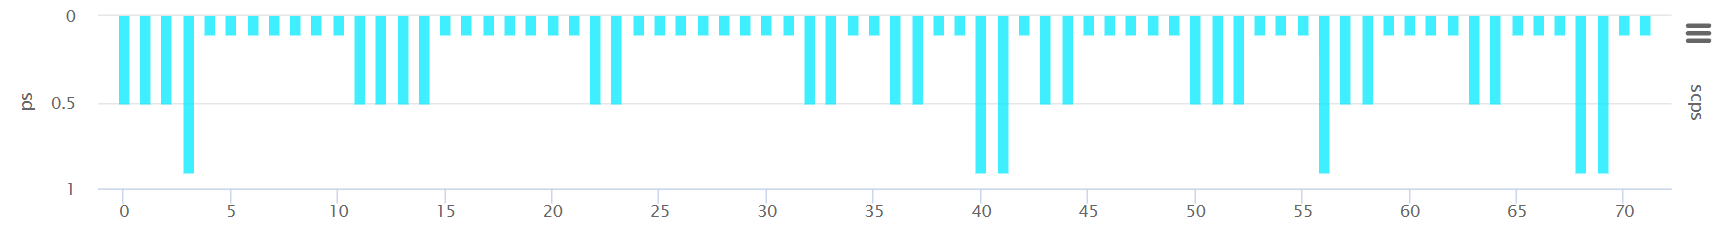
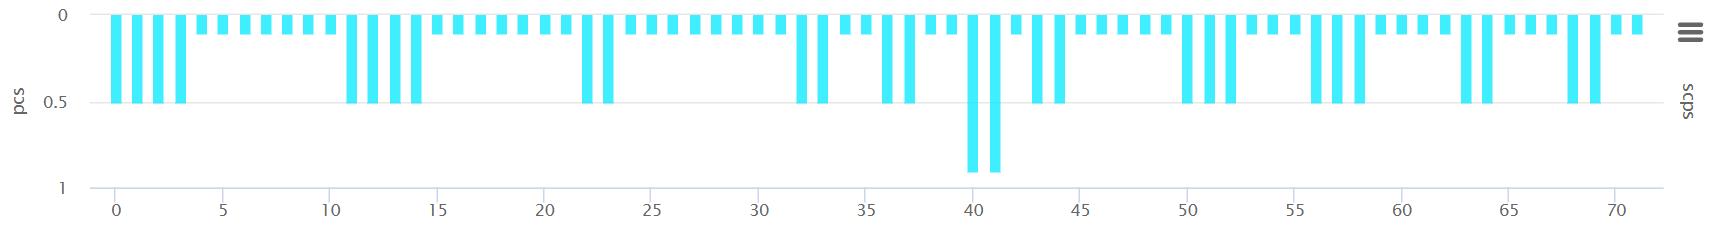
Charts and images change as words change

Changed region(s): [[0.0, 0.0304, 1.0, 0.9435], [0.1238, 0.8522, 0.1548, 0.8826]]

diff --git a/static/js/polarityUtils.js b/static/js/polarityUtils.js
@@ -11,8 +11,8 @@ class PolarityUtils {
         this.outputPolarSeq = '';
         this.outputFiveSeq = '';
         //N-N-X, P-P-X외 추가
-        this.dicInputPolar = {'N-N-X' : 0,'N-P-X' : 0,'N-A-X' : 0,'N-B-X' : 0,'P-N-X' : 0,'P-P-X' : 0,'P-A-X' : 0,'P-B-X' : 0,'A-N-X' : 0,'A-P-X' : 0,'A-A-X' : 0,'A-B-X' : 0,'B-N-X' : 0,'B-P-X' : 0,'B-B-X' : 0,'B-A-X' : 0,'ETC' : 0,};
-        this.dicOutputPolar = {'N-N-X' : 0,'N-P-X' : 0,'N-A-X' : 0,'N-B-X' : 0,'P-N-X' : 0,'P-P-X' : 0,'P-A-X' : 0,'P-B-X' : 0,'A-N-X' : 0,'A-P-X' : 0,'A-A-X' : 0,'A-B-X' : 0,'B-N-X' : 0,'B-P-X' : 0,'B-B-X' : 0,'B-A-X' : 0,'ETC' : 0,};
+        this.dicInputPolar = {'N-N-＊' : 0,'N-P-＊' : 0,'N-A-＊' : 0,'N-B-＊' : 0,'P-N-＊' : 0,'P-P-＊' : 0,'P-A-＊' : 0,'P-B-＊' : 0,'A-N-＊' : 0,'A-P-＊' : 0,'A-A-＊' : 0,'A-B-＊' : 0,'B-N-＊' : 0,'B-P-＊' : 0,'B-B-＊' : 0,'B-A-＊' : 0,'ETC' : 0,};
+        this.dicOutputPolar = {'N-N-＊' : 0,'N-P-＊' : 0,'N-A-＊' : 0,'N-B-＊' : 0,'P-N-＊' : 0,'P-P-＊' : 0,'P-A-＊' : 0,'P-B-＊' : 0,'A-N-＊' : 0,'A-P-＊' : 0,'A-A-＊' : 0,'A-B-＊' : 0,'B-N-＊' : 0,'B-P-＊' : 0,'B-B-＊' : 0,'B-A-＊' : 0,'ETC' : 0,};
         //Polarity feature	Polarity feature_S	Amino acid
         this.DIC_POLAR_FEATURE = {'A' : 'N','V' : 'N','L' : 'N','G' : 'N','I' : 'N','M' : 'N','W' : 'N','F' : 'N','P' : 'N','S' : 'P','C' : 'P','N' : 'P','Q' : 'P','T' : 'P','Y' : 'P','D' : 'A','E' : 'A','K' : 'B','R' : 'B','H' : 'B',};
         //Five amino acid properties 
@@ -117,43 +117,43 @@ class PolarityUtils {
             //input polar aa 건수 계산
             for (let i=0; i<this.inputPolarSeq.length -2; i++){
                 //기존 3자리조건에서 2자리로 변경, NN,PP에서 추가 ETC는 는 표에 count하기 위해 추가
-                if (this.inputPolarSeq.slice(i, i+2) == 'NN') this.dicInputPolar['N-N-X'] += 1
-                else if (this.inputPolarSeq.slice(i, i+2) == 'NP') this.dicInputPolar['N-P-X'] += 1, this.dicInputPolar['ETC'] += 1
-                else if (this.inputPolarSeq.slice(i, i+2) == 'NA') this.dicInputPolar['N-A-X'] += 1, this.dicInputPolar['ETC'] += 1
-                else if (this.inputPolarSeq.slice(i, i+2) == 'NB') this.dicInputPolar['N-B-X'] += 1, this.dicInputPolar['ETC'] += 1
-                else if (this.inputPolarSeq.slice(i, i+2) == 'PN') this.dicInputPolar['P-N-X'] += 1, this.dicInputPolar['ETC'] += 1
-                else if (this.inputPolarSeq.slice(i, i+2) == 'PP') this.dicInputPolar['P-P-X'] += 1
-                else if (this.inputPolarSeq.slice(i, i+2) == 'PA') this.dicInputPolar['P-A-X'] += 1, this.dicInputPolar['ETC'] += 1
-                else if (this.inputPolarSeq.slice(i, i+2) == 'PB') this.dicInputPolar['P-B-X'] += 1, this.dicInputPolar['ETC'] += 1
-                else if (this.inputPolarSeq.slice(i, i+2) == 'AA') this.dicInputPolar['A-A-X'] += 1, this.dicInputPolar['ETC'] += 1
-                else if (this.inputPolarSeq.slice(i, i+2) == 'AB') this.dicInputPolar['A-B-X'] += 1, this.dicInputPolar['ETC'] += 1
-                else if (this.inputPolarSeq.slice(i, i+2) == 'AN') this.dicInputPolar['A-N-X'] += 1, this.dicInputPolar['ETC'] += 1
-                else if (this.inputPolarSeq.slice(i, i+2) == 'AP') this.dicInputPolar['A-P-X'] += 1, this.dicInputPolar['ETC'] += 1
-                else if (this.inputPolarSeq.slice(i, i+2) == 'BN') this.dicInputPolar['B-N-X'] += 1, this.dicInputPolar['ETC'] += 1
-                else if (this.inputPolarSeq.slice(i, i+2) == 'BP') this.dicInputPolar['B-P-X'] += 1, this.dicInputPolar['ETC'] += 1
-                else if (this.inputPolarSeq.slice(i, i+2) == 'BA') this.dicInputPolar['B-A-X'] += 1, this.dicInputPolar['ETC'] += 1
-                else if (this.inputPolarSeq.slice(i, i+2) == 'BB') this.dicInputPolar['B-B-X'] += 1, this.dicInputPolar['ETC'] += 1
+                if (this.inputPolarSeq.slice(i, i+2) == 'NN') this.dicInputPolar['N-N-＊'] += 1
+                else if (this.inputPolarSeq.slice(i, i+2) == 'NP') this.dicInputPolar['N-P-＊'] += 1, this.dicInputPolar['ETC'] += 1
+                else if (this.inputPolarSeq.slice(i, i+2) == 'NA') this.dicInputPolar['N-A-＊'] += 1, this.dicInputPolar['ETC'] += 1
+                else if (this.inputPolarSeq.slice(i, i+2) == 'NB') this.dicInputPolar['N-B-＊'] += 1, this.dicInputPolar['ETC'] += 1
+                else if (this.inputPolarSeq.slice(i, i+2) == 'PN') this.dicInputPolar['P-N-＊'] += 1, this.dicInputPolar['ETC'] += 1
+                else if (this.inputPolarSeq.slice(i, i+2) == 'PP') this.dicInputPolar['P-P-＊'] += 1
+                else if (this.inputPolarSeq.slice(i, i+2) == 'PA') this.dicInputPolar['P-A-＊'] += 1, this.dicInputPolar['ETC'] += 1
+                else if (this.inputPolarSeq.slice(i, i+2) == 'PB') this.dicInputPolar['P-B-＊'] += 1, this.dicInputPolar['ETC'] += 1
+                else if (this.inputPolarSeq.slice(i, i+2) == 'AA') this.dicInputPolar['A-A-＊'] += 1, this.dicInputPolar['ETC'] += 1
+                else if (this.inputPolarSeq.slice(i, i+2) == 'AB') this.dicInputPolar['A-B-＊'] += 1, this.dicInputPolar['ETC'] += 1
+                else if (this.inputPolarSeq.slice(i, i+2) == 'AN') this.dicInputPolar['A-N-＊'] += 1, this.dicInputPolar['ETC'] += 1
+                else if (this.inputPolarSeq.slice(i, i+2) == 'AP') this.dicInputPolar['A-P-＊'] += 1, this.dicInputPolar['ETC'] += 1
+                else if (this.inputPolarSeq.slice(i, i+2) == 'BN') this.dicInputPolar['B-N-＊'] += 1, this.dicInputPolar['ETC'] += 1
+                else if (this.inputPolarSeq.slice(i, i+2) == 'BP') this.dicInputPolar['B-P-＊'] += 1, this.dicInputPolar['ETC'] += 1
+                else if (this.inputPolarSeq.slice(i, i+2) == 'BA') this.dicInputPolar['B-A-＊'] += 1, this.dicInputPolar['ETC'] += 1
+                else if (this.inputPolarSeq.slice(i, i+2) == 'BB') this.dicInputPolar['B-B-＊'] += 1, this.dicInputPolar['ETC'] += 1
                 else this.dicInputPolar['ETC'] += 1
             }
 
             //output polar aa 건수 계산
             for (let i=0; i<this.outputPolarSeq.length -2; i++){
-                if (this.outputPolarSeq.slice(i, i+2) == 'NN') this.dicOutputPolar['N-N-X'] += 1
-                else if (this.outputPolarSeq.slice(i, i+2) == 'NP') this.dicOutputPolar['N-P-X'] += 1, this.dicOutputPolar['ETC'] += 1
-                else if (this.outputPolarSeq.slice(i, i+2) == 'NA') this.dicOutputPolar['N-A-X'] += 1, this.dicOutputPolar['ETC'] += 1
-                else if (this.outputPolarSeq.slice(i, i+2) == 'NB') this.dicOutputPolar['N-B-X'] += 1, this.dicOutputPolar['ETC'] += 1
-                else if (this.outputPolarSeq.slice(i, i+2) == 'PN') this.dicOutputPolar['P-N-X'] += 1, this.dicOutputPolar['ETC'] += 1
-                else if (this.outputPolarSeq.slice(i, i+2) == 'PP') this.dicOutputPolar['P-P-X'] += 1
-                else if (this.outputPolarSeq.slice(i, i+2) == 'PA') this.dicOutputPolar['P-A-X'] += 1, this.dicOutputPolar['ETC'] += 1
-                else if (this.outputPolarSeq.slice(i, i+2) == 'PB') this.dicOutputPolar['P-B-X'] += 1, this.dicOutputPolar['ETC'] += 1
-                else if (this.outputPolarSeq.slice(i, i+2) == 'AA') this.dicOutputPolar['A-A-X'] += 1, this.dicOutputPolar['ETC'] += 1
-                else if (this.outputPolarSeq.slice(i, i+2) == 'AB') this.dicOutputPolar['A-B-X'] += 1, this.dicOutputPolar['ETC'] += 1
-                else if (this.outputPolarSeq.slice(i, i+2) == 'AN') this.dicOutputPolar['A-N-X'] += 1, this.dicOutputPolar['ETC'] += 1
-                else if (this.outputPolarSeq.slice(i, i+2) == 'AP') this.dicOutputPolar['A-P-X'] += 1, this.dicOutputPolar['ETC'] += 1
-                else if (this.outputPolarSeq.slice(i, i+2) == 'BN') this.dicOutputPolar['B-N-X'] += 1, this.dicOutputPolar['ETC'] += 1
-                else if (this.outputPolarSeq.slice(i, i+2) == 'BP') this.dicOutputPolar['B-P-X'] += 1, this.dicOutputPolar['ETC'] += 1
-                else if (this.outputPolarSeq.slice(i, i+2) == 'BA') this.dicOutputPolar['B-A-X'] += 1, this.dicOutputPolar['ETC'] += 1
-                else if (this.outputPolarSeq.slice(i, i+2) == 'BB') this.dicOutputPolar['B-B-X'] += 1, this.dicOutputPolar['ETC'] += 1
+                if (this.outputPolarSeq.slice(i, i+2) == 'NN') this.dicOutputPolar['N-N-＊'] += 1
+                else if (this.outputPolarSeq.slice(i, i+2) == 'NP') this.dicOutputPolar['N-P-＊'] += 1, this.dicOutputPolar['ETC'] += 1
+                else if (this.outputPolarSeq.slice(i, i+2) == 'NA') this.dicOutputPolar['N-A-＊'] += 1, this.dicOutputPolar['ETC'] += 1
+                else if (this.outputPolarSeq.slice(i, i+2) == 'NB') this.dicOutputPolar['N-B-＊'] += 1, this.dicOutputPolar['ETC'] += 1
+                else if (this.outputPolarSeq.slice(i, i+2) == 'PN') this.dicOutputPolar['P-N-＊'] += 1, this.dicOutputPolar['ETC'] += 1
+                else if (this.outputPolarSeq.slice(i, i+2) == 'PP') this.dicOutputPolar['P-P-＊'] += 1
+                else if (this.outputPolarSeq.slice(i, i+2) == 'PA') this.dicOutputPolar['P-A-＊'] += 1, this.dicOutputPolar['ETC'] += 1
+                else if (this.outputPolarSeq.slice(i, i+2) == 'PB') this.dicOutputPolar['P-B-＊'] += 1, this.dicOutputPolar['ETC'] += 1
+                else if (this.outputPolarSeq.slice(i, i+2) == 'AA') this.dicOutputPolar['A-A-＊'] += 1, this.dicOutputPolar['ETC'] += 1
+                else if (this.outputPolarSeq.slice(i, i+2) == 'AB') this.dicOutputPolar['A-B-＊'] += 1, this.dicOutputPolar['ETC'] += 1
+                else if (this.outputPolarSeq.slice(i, i+2) == 'AN') this.dicOutputPolar['A-N-＊'] += 1, this.dicOutputPolar['ETC'] += 1
+                else if (this.outputPolarSeq.slice(i, i+2) == 'AP') this.dicOutputPolar['A-P-＊'] += 1, this.dicOutputPolar['ETC'] += 1
+                else if (this.outputPolarSeq.slice(i, i+2) == 'BN') this.dicOutputPolar['B-N-＊'] += 1, this.dicOutputPolar['ETC'] += 1
+                else if (this.outputPolarSeq.slice(i, i+2) == 'BP') this.dicOutputPolar['B-P-＊'] += 1, this.dicOutputPolar['ETC'] += 1
+                else if (this.outputPolarSeq.slice(i, i+2) == 'BA') this.dicOutputPolar['B-A-＊'] += 1, this.dicOutputPolar['ETC'] += 1
+                else if (this.outputPolarSeq.slice(i, i+2) == 'BB') this.dicOutputPolar['B-B-＊'] += 1, this.dicOutputPolar['ETC'] += 1
                 else this.dicOutputPolar['ETC'] += 1
             }
 

diff --git a/templates/aive/prdctn_result_cv2.html b/templates/aive/prdctn_result_cv2.html
@@ -307,7 +307,7 @@
                                     <img id="imgid" class="help_pop" src="/static/img/sub/ico_help.png" alt="help" style="display: inline">
                                     <span style="display:none">
                                         SCPS : K-means clustering for each amino acid position with protein structure prediction information(PAE, pLDDT)
-                                        <br/>PS : polarity position information for each amino acid
+                                        <br/>PCS : polarity position information for each amino acid
                                         <br/>MR : evaluation of change rate in frequencies of amino acid sequences and nucleotide sequence
                                         <br/>BPES : evaluation of biochemical properties of amino acid sequences
                                     </span>
@@ -315,9 +315,9 @@
                             </div>
                             <div class="tutorial_expl01" style="margin:0px;">
                                 <ol>
-                                    <li> Protein structure prediction characteristics (SCPS: SubClustering of Protein Structure in ①) and polarity (PS: Polarity Score) are shown. </li>
+                                    <li> Protein structure prediction characteristics (SCPS: SubClustering of Protein Structure in ①) and polarity (PCS: Polarity Change Score) are shown. </li>
                                     <li> SCPS divides the residues constituting the 3D protein structure into several groups using K-means clustering. The indicated groups are those with a high proportion of WHO name variants.</li>
-                                    <li> PS assigns weight to a position having a specific structure (where P appears consecutively) by polarity features of amino acid.</li>
+                                    <li> PCS assigns weight to a position having a specific structure (where P appears consecutively) by polarity features of amino acid.</li>
                                     <li> Ratio change in frequencies of amino acids sequences (mr: mutation rate) and Biochemical properties of amino acid sequencies (bpes: biochemical properties eigen score) are shown. </li>
                                     <li> MR is the rate of change of Amino Acid and its constituent nucleotides; the higher the rate, the higher the rate of change.</li>
                                     <li> BPES measures changes in the biochemical properties of amino acids at the site of a mutation. A high rate of change results in a high BPES value. Biochemical properties are measured by integrating amino acid residue, pH, and hydrophobic information.</li>
@@ -336,9 +336,9 @@
                             </div>
                             <div class="tutorial_expl01" style="margin:0px;">
                                 <ol>
-                                    <li> APESS is an amino acid property eigen selection score calculated by multiplying the values of SCPS, PS, MR, and BPES.</li>
+                                    <li> APESS is an amino acid property eigen selection score calculated by multiplying the values of SCPS, PCS, MR, and BPES.</li>
                                     <li> APESS is a value that integrates the results of ② and ③. The higher the APESS value, the more dangerous the mutation is.</li>
-                                    <li> The graph shows the positions of mutations with structural differences (SCPS, PS) in viral proteins. It also shows the positions and magnitudes of relatively large physical changes (MR) and biochemical changes (BPES).</li>
+                                    <li> The graph shows the positions of mutations with structural differences (SCPS, PCS) in viral proteins. It also shows the positions and magnitudes of relatively large physical changes (MR) and biochemical changes (BPES).</li>
                                 </ol> 
                             </div>
                             <div class="ICn_area" style="width:100%;">

diff --git a/templates/aive/aive_tutorial.html b/templates/aive/aive_tutorial.html
@@ -39,10 +39,10 @@
 			<div class="tutorial_expl02">
 				<dt>
 					A. Protein structure prediction from viral amino acid sequences<p></p>
-					B. Analysis of repeated polarity in viral amino acid sequences (PS)<p></p>
+					B. Analysis of repeated polarity in viral amino acid sequences (PCS)<p></p>
 					C. Rate of change of mutations for viral genome sequences (MR)<p></p>
 					D. Scoring of amino acid changes based on amino acid properties (BPES)<p></p>
-					E. Intergrative mathematical analysis of protein structure prediction (amino acid clustering), PS, MR, and, BPES
+					E. Intergrative mathematical analysis of protein structure prediction (amino acid clustering), PCS, MR, and, BPES
 				</dt> 
 			</div>
 			<p span class="title_num2">(2) The input range of analysis for AIVE is as follows :
@@ -278,7 +278,7 @@
 			<div class="tutorial_expl02">
 				<dl>
 					<dd>
-						For the amino acid sequence entered by the user, the AIVE system provides a total of 6 evaluation charts. First, AIVE predicts protein structures due to mutations in each gene for coronavirus lineages or sub-lineages. From the predicted result, it carries out grouping of amino acids (components of 3D protein structure) utilizing K-means clustering to report SCPS results. Second, through repeated pattern analysis of polar amino acids in amino acid sequences, AIVE reports PS results. Third, AIVE figures out amino acid properties to measure BPES through measurement of changes in biochemical properties of amino acid. Fourth, AIVE calculates MR through rate of change for nucleotide frequencies due to mutations. Fifth, APESS, the result of comprehensive mathematical model (SCP*PS*MR*BPES) of measured analysis results is provided. Finally, the APESS distribution graph provides risk and spread results of the amino acid sequence entered by the user by comparing to VOCs’ APESS evaluation metric.
+						For the amino acid sequence entered by the user, the AIVE system provides a total of 6 evaluation charts. First, AIVE predicts protein structures due to mutations in each gene for coronavirus lineages or sub-lineages. From the predicted result, it carries out grouping of amino acids (components of 3D protein structure) utilizing K-means clustering to report SCPS results. Second, through repeated pattern analysis of polar amino acids in amino acid sequences, AIVE reports PCS results. Third, AIVE figures out amino acid properties to measure BPES through measurement of changes in biochemical properties of amino acid. Fourth, AIVE calculates MR through rate of change for nucleotide frequencies due to mutations. Fifth, APESS, the result of comprehensive mathematical model (SCP*PCS*MR*BPES) of measured analysis results is provided. Finally, the APESS distribution graph provides risk and spread results of the amino acid sequence entered by the user by comparing to VOCs’ APESS evaluation metric.
 					</dd>
 				</dl>
 			</div>
@@ -303,8 +303,8 @@
 			<div class="tutorial_expl02">
 				<dl>
 					<dd>
-						PS(Polarity Score)<p></p>
-						: PS assigns a weight to a position having a specific structure (where P appears consecutively) through the polarity of amino acid structure information constituting the protein structure.
+						PCS(Polarity Change Score)<p></p>
+						: PCS assigns a weight to a position having a specific structure (where P appears consecutively) through the polarity of amino acid structure information constituting the protein structure.
 					</dd>
 				</dl>
 			</div>
@@ -343,7 +343,7 @@
 				<dl>
 					<dd>
 						APESS<p></p>
-						: APESS is a value that integrates the results of SCPC, PS, BPES, and MR, and the higher the value, the more dangerous the mutation is.
+						: APESS is a value that integrates the results of SCPC, PCS, BPES, and MR, and the higher the value, the more dangerous the mutation is.
 					</dd>
 				</dl>
 			</div>

diff --git a/templates/aive/aive_main.html b/templates/aive/aive_main.html
@@ -36,7 +36,7 @@
 			<div class="expl_text"> 
 				<div class="info_box">
 					<b class="pointb">A</b>rtificial <b class="pointb">I</b>ntelligence analytics toolkit for predicting <b class="pointb">V</b>irus mutation in prot<b class="pointb">E</b>in (<b class="points">AIVE</b>) 
-					is a Web and GPU based analysis tool that can predict protein structures and properties from user-entered viral sequences. AIVE uses AlphaFold2 software (<a href="https://github.com/deepmind/alphafold">https://github.com/deepmind/alphafold</a>) to evaluate protein structures. AIVE provides independently developed mathematical models (SCPS, PS, MR, BPES, APESS). It provides information on structural differences (SCPS, PS), physical changes (MR), and biochemical changes (BPES) at the amino acid and nucleotide levels. These tools were calculated using various information such as amino acid chemical properties (pH, Hydrophobic, Residue), molecular structure prediction results (PAE, pLDDT), mutation and codon frequencies in viruses, and amino acid polarity features. AIVE serves optimized analysis and prediction for SARS-CoV-2 viral mutations. Analysis and prediction of other virus species will be updated later.
+					is a Web and GPU based analysis tool that can predict protein structures and properties from user-entered viral sequences. AIVE uses AlphaFold2 software (<a href="https://github.com/deepmind/alphafold">https://github.com/deepmind/alphafold</a>) to evaluate protein structures. AIVE provides independently developed mathematical models (SCPS, PCS, MR, BPES, APESS). It provides information on structural differences (SCPS, PCS), physical changes (MR), and biochemical changes (BPES) at the amino acid and nucleotide levels. These tools were calculated using various information such as amino acid chemical properties (pH, Hydrophobic, Residue), molecular structure prediction results (PAE, pLDDT), mutation and codon frequencies in viruses, and amino acid polarity features. AIVE serves optimized analysis and prediction for SARS-CoV-2 viral mutations. Analysis and prediction of other virus species will be updated later.
 				</div>
 				<div class="list_box">
 				   <div class="mb_30">

diff --git a/static/js/prdctnChart.js b/static/js/prdctnChart.js
@@ -1190,7 +1190,7 @@ class PrdctnChart {
             yAxis: [{
                 min: 0,
                 title: {
-                    text: 'ps'
+                    text: 'pcs'
                 },
                 reversed: true
             }, {
@@ -1214,7 +1214,7 @@ class PrdctnChart {
                 }
             },
             series: [{
-                name: 'ps',
+                name: 'pcs',
                 color: 'rgba(0, 234, 255, 0.75)',
                 data: apess.ps,
             }, {
